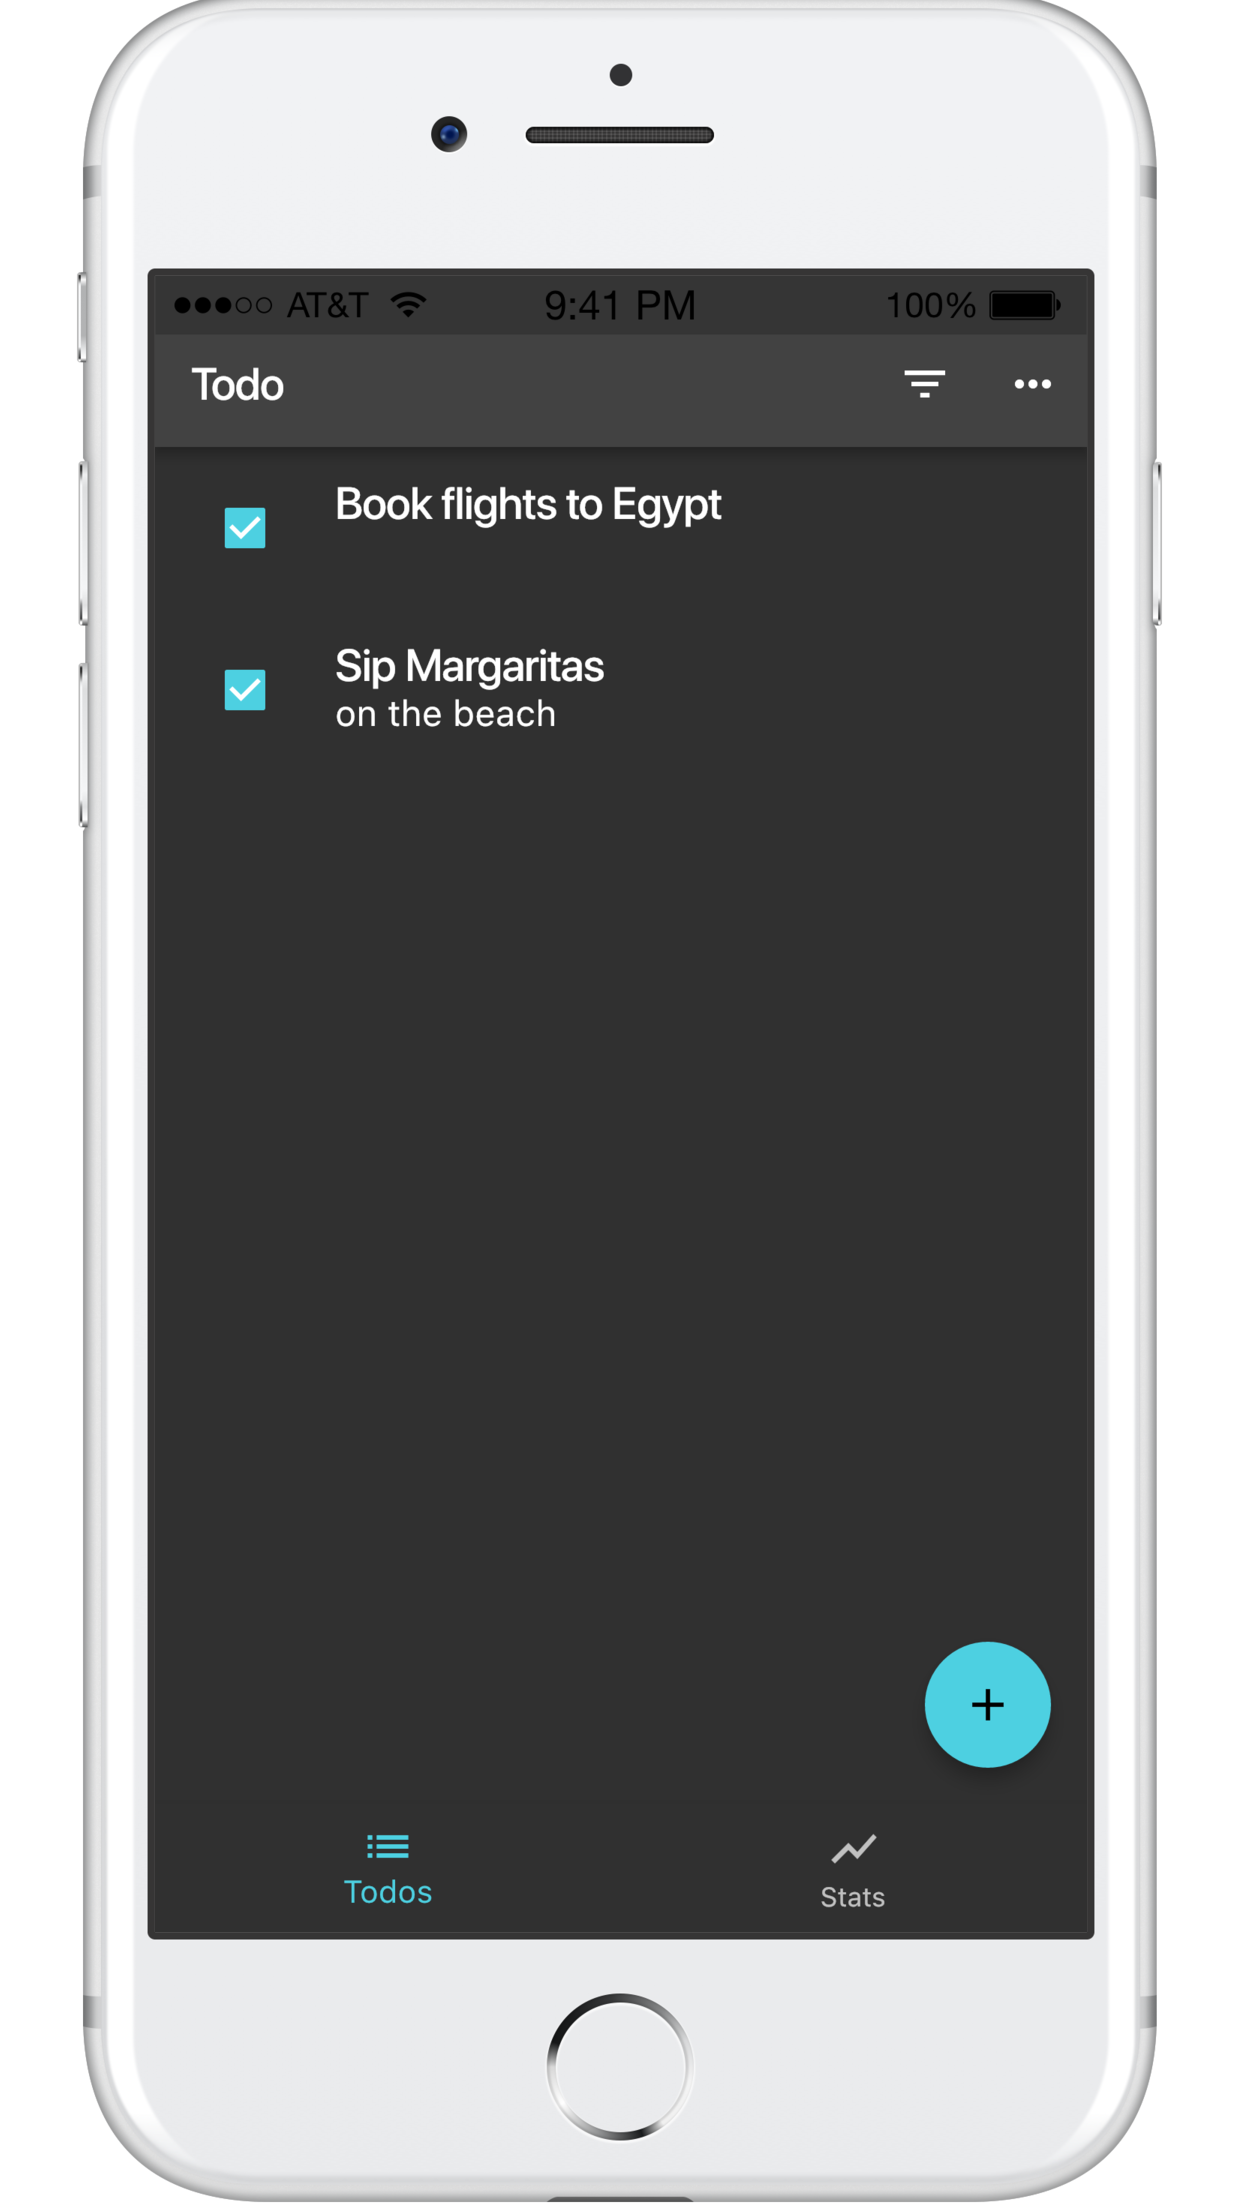
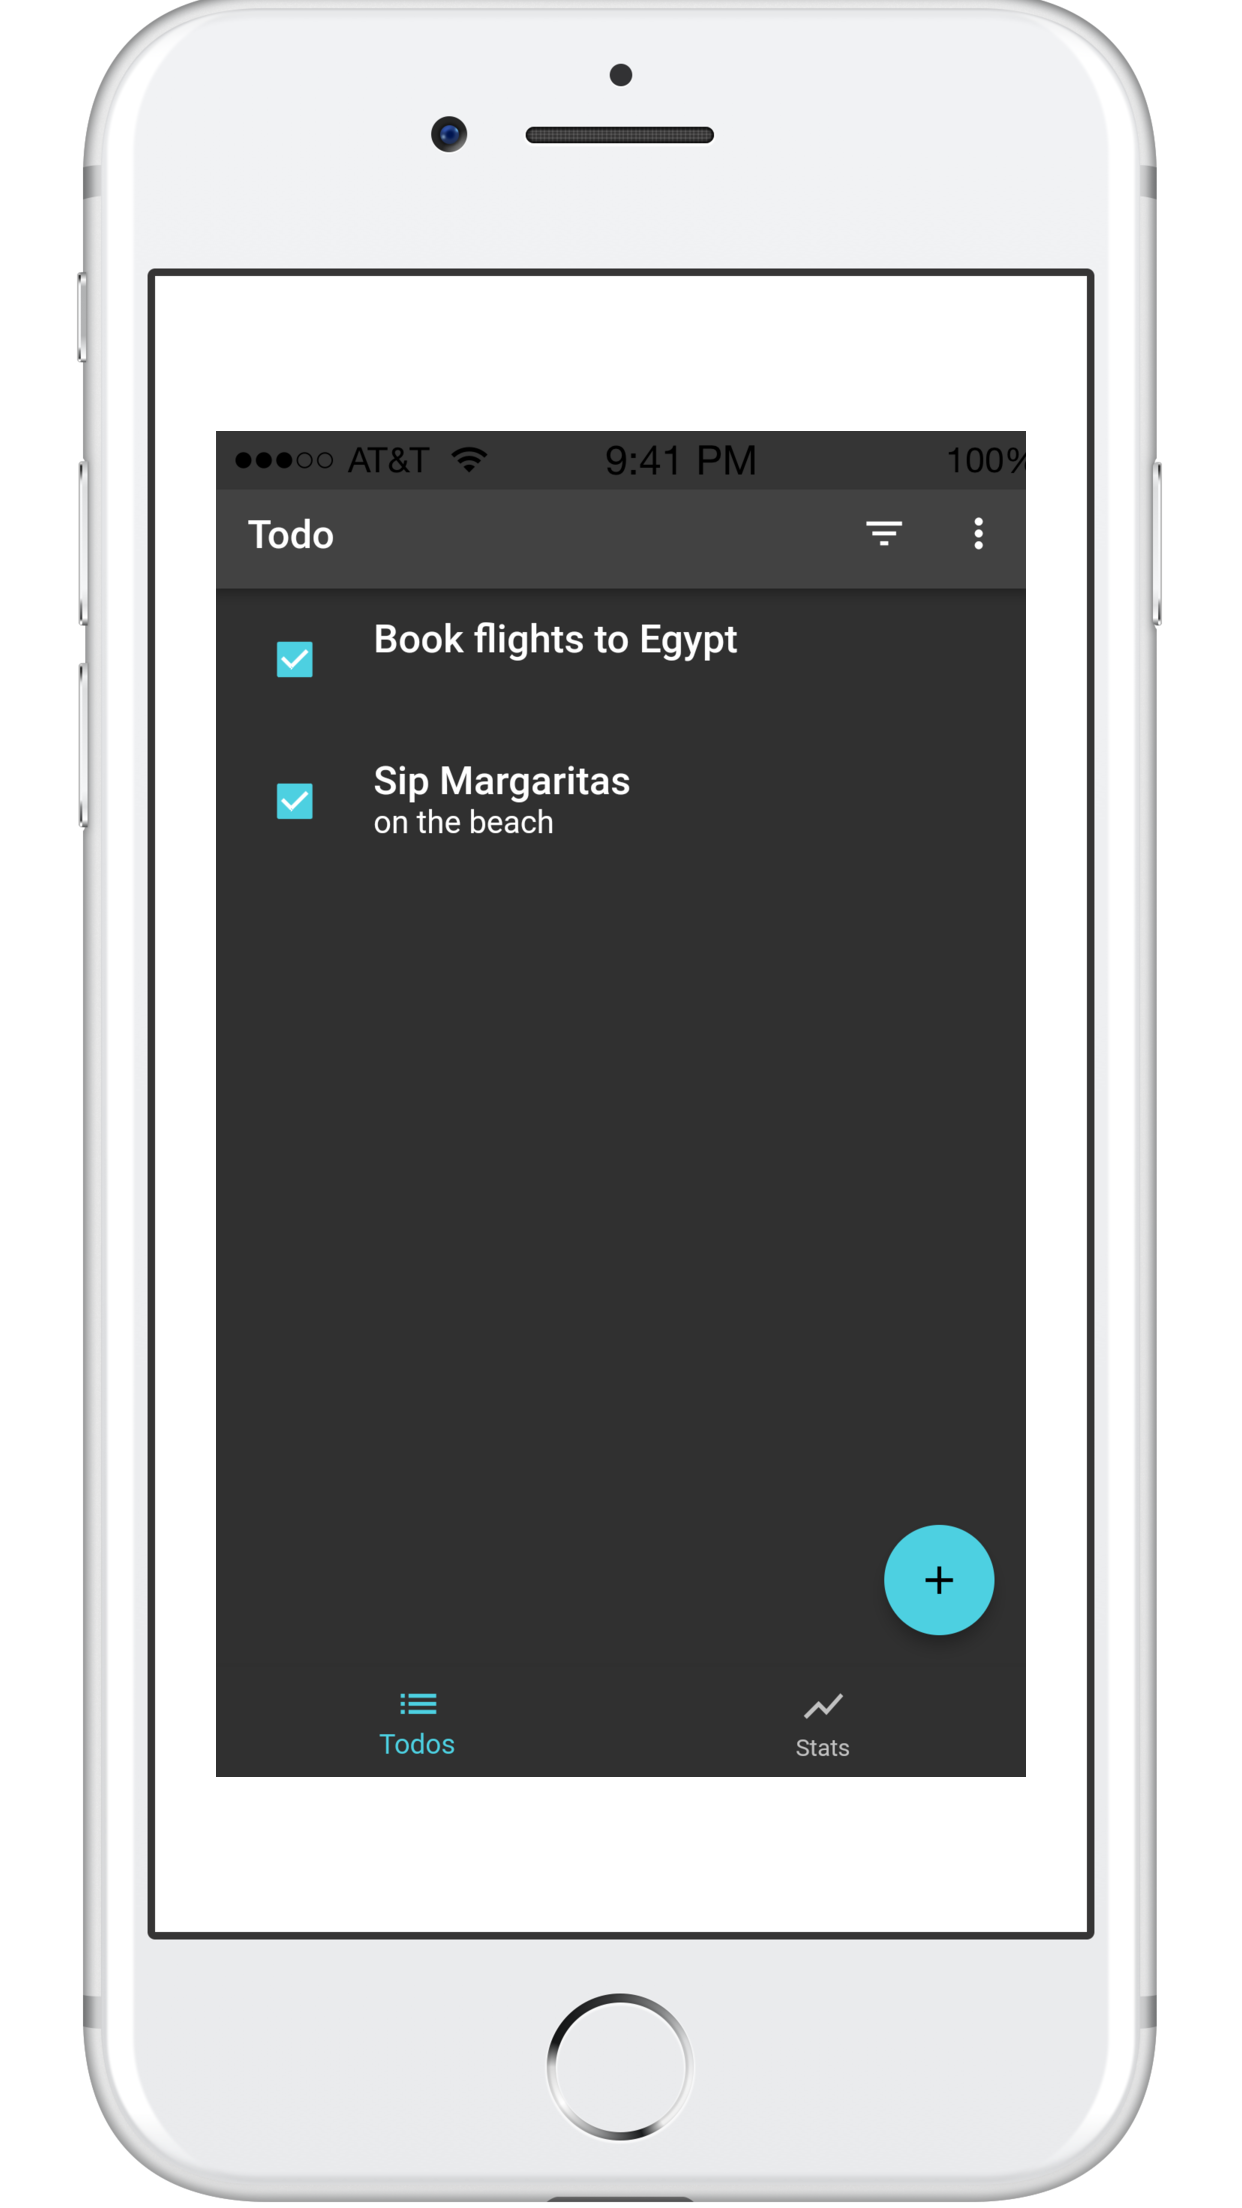
Added initial locale screenshots

Changed region(s): [[0.1224, 0.125, 0.8873, 0.875], [0.2142, 0.3438, 0.2754, 0.375]]

diff --git a/lib/app.dart b/lib/app.dart
@@ -71,6 +71,9 @@ class VanillaAppState extends State<VanillaApp> {
         },
       },
       debugShowCheckedModeBanner: false,
+      locale: const Locale('en', 'US'),
+      supportedLocales: const <Locale>[Locale('en', 'US')],
+      localeResolutionCallback: (x, y) => const Locale('en', 'US'),
     );
   }
 

diff --git a/pkg/integration_tests/lib/integration_tests.dart b/pkg/integration_tests/lib/integration_tests.dart
@@ -12,7 +12,7 @@ import 'package:test/test.dart';
 import 'page_objects/page_objects.dart';
 
 main() {
-  final Map config = Config('config.yaml').config;
+  final Map config = Config().config;
   int screenshotCount = 0;
 
   group('Todo App Test', () {
